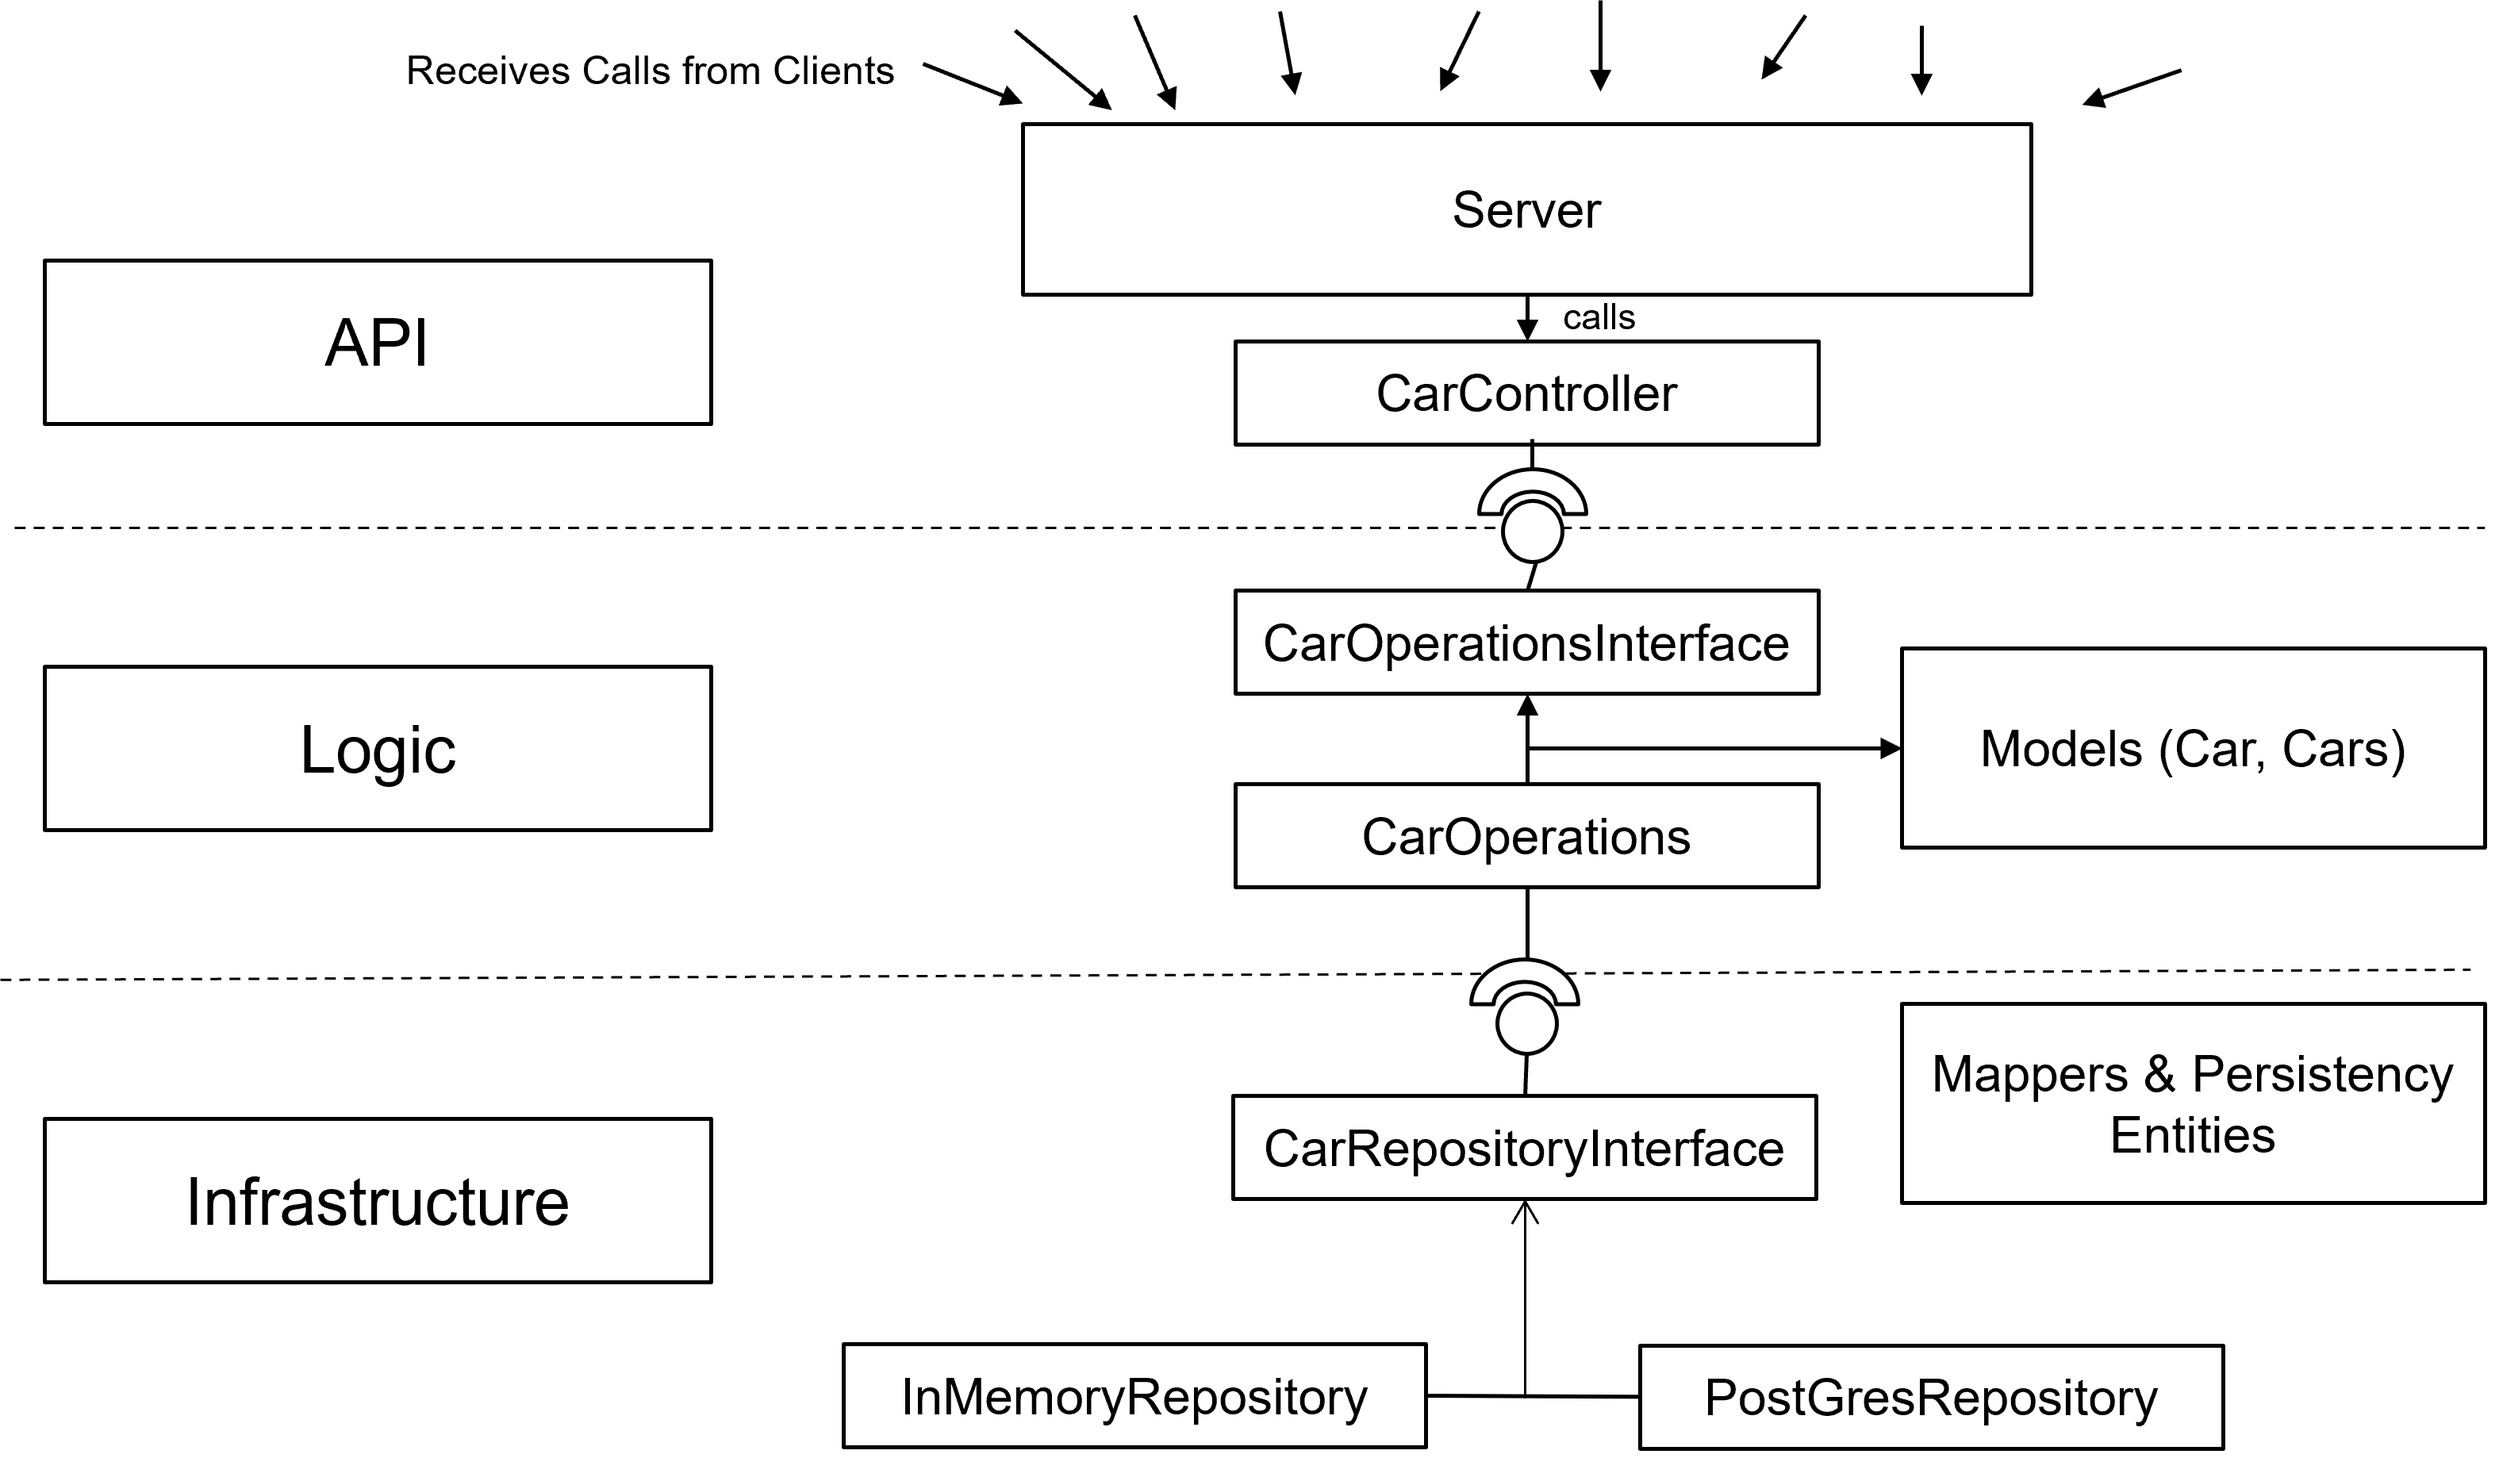
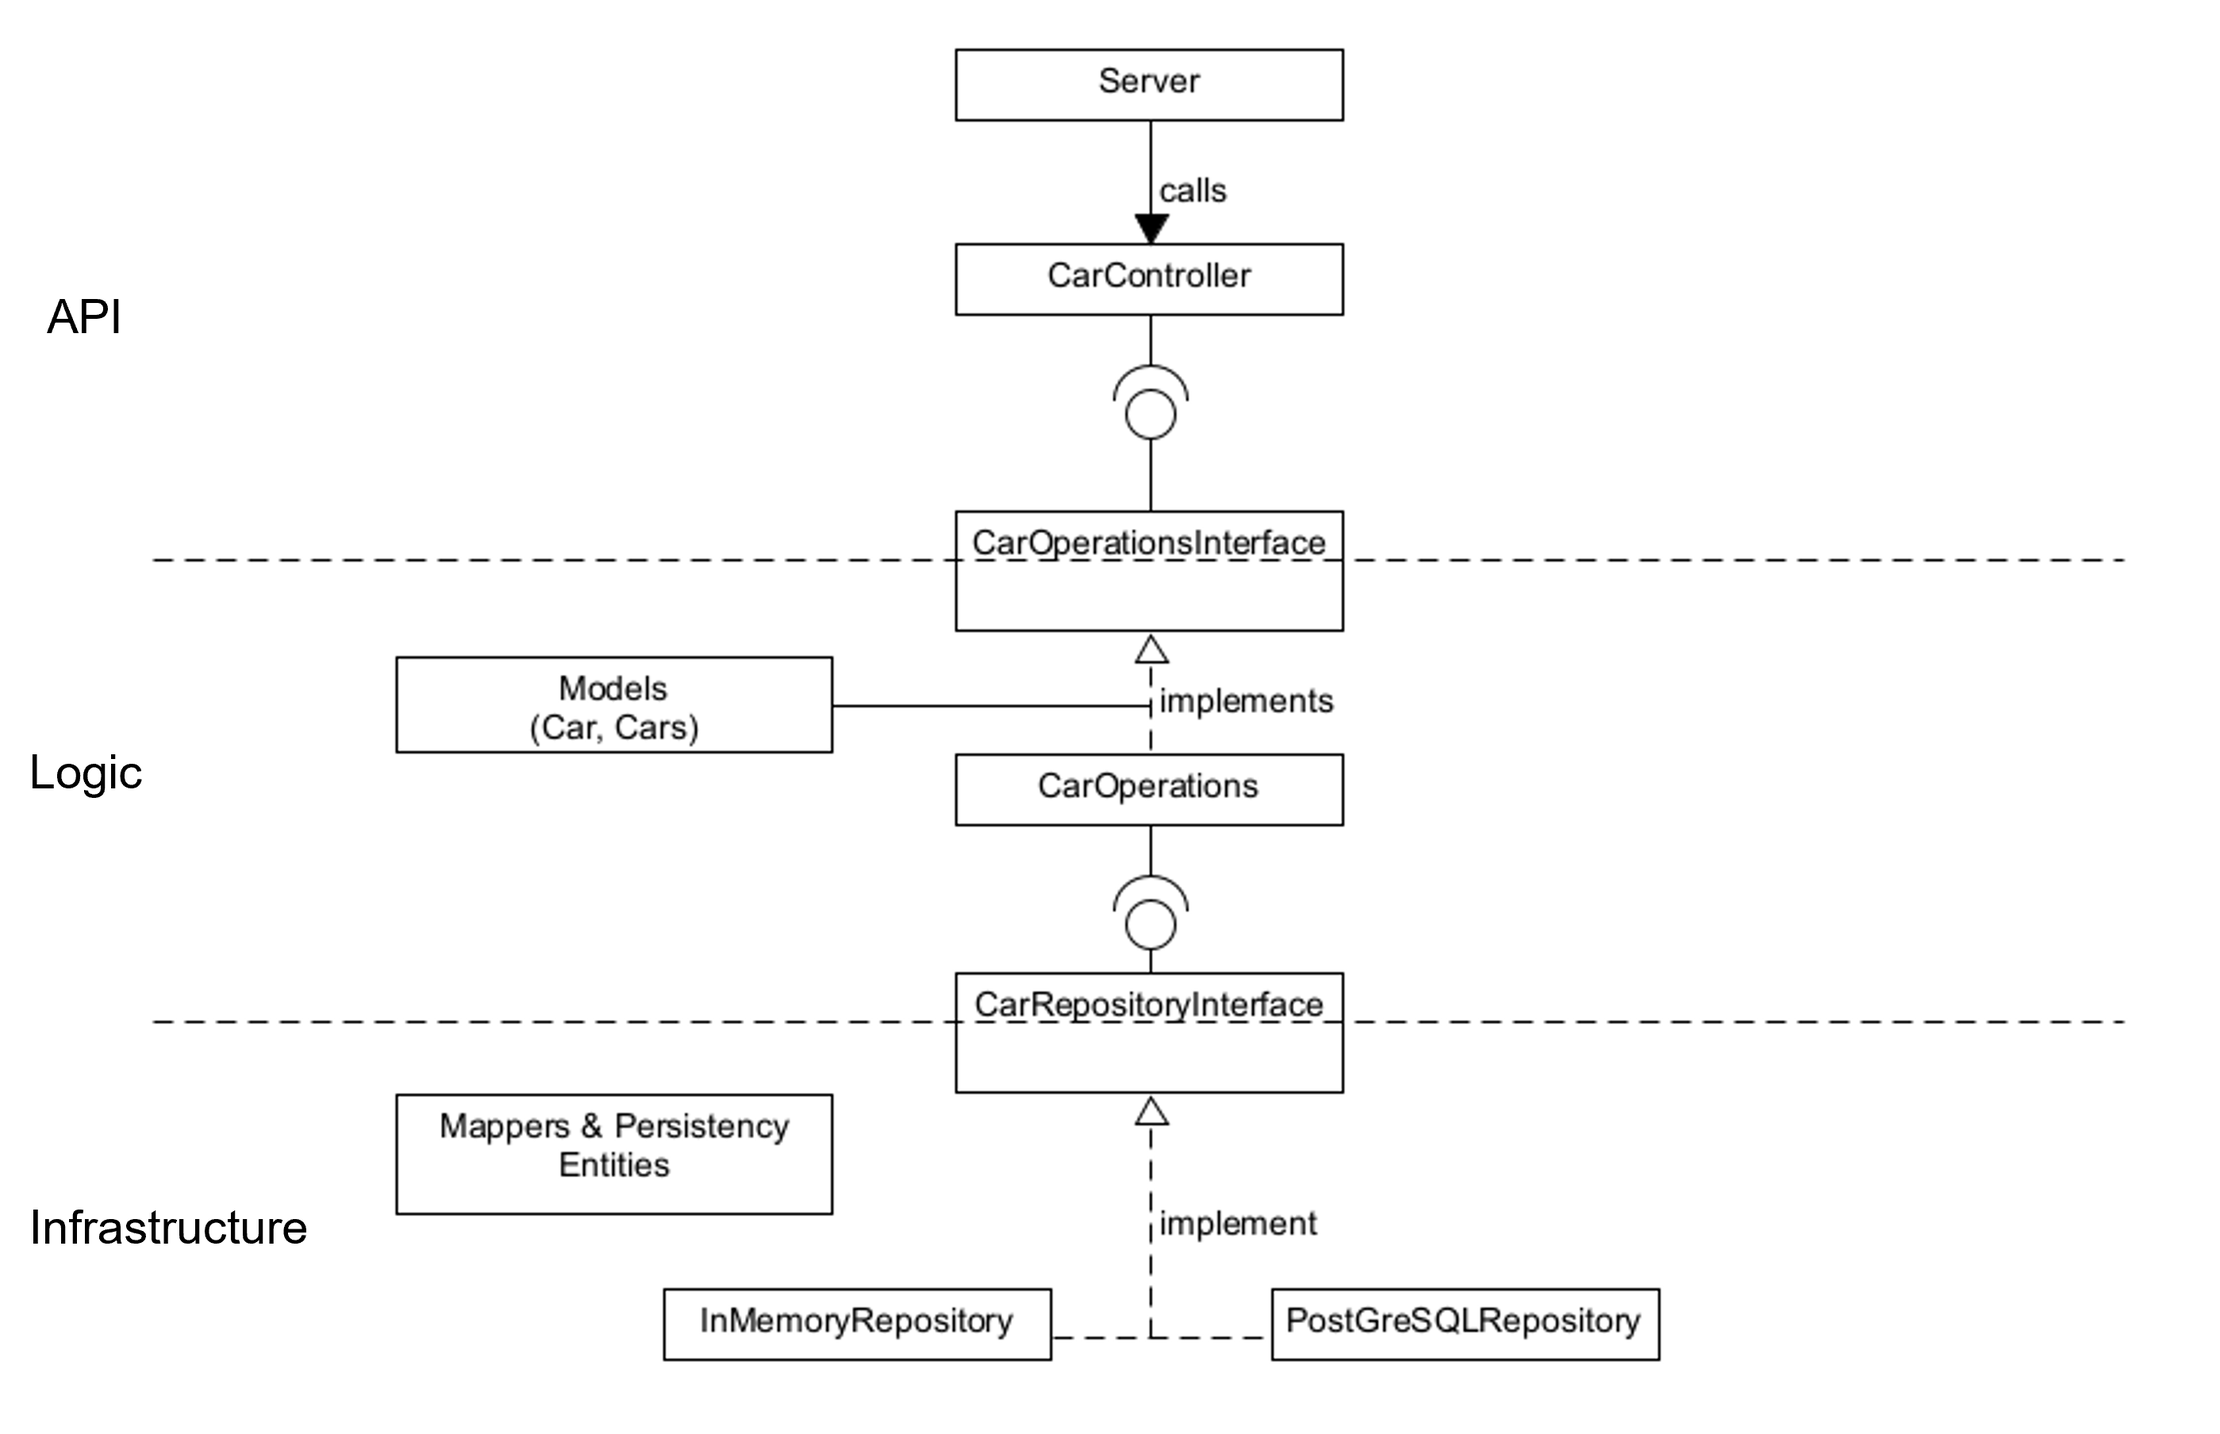
dmcars microarchitecture angepasst & schönheitsfehler korrigiert

diff --git a/chapters/3_ms_tasks/2_domain_ms_dmcar/2.4_implementation_dm_car.tex b/chapters/3_ms_tasks/2_domain_ms_dmcar/2.4_implementation_dm_car.tex
@@ -6,16 +6,16 @@ Finally, the microarchitecture is visualized in VS Code.
 
 \subsubsection*{Parts of a Micro Architecture}
 A microservice architecture divides a system into three distributed system parts: API, Logic, and Infrastructure.
-These term will be explained in the following.
+These terms will be explained in the following.
 
 \begin{description}
     \item[API:] The API defines the endpoints of the microservice.
-                This is done by specifying paths and the according methods each path uses.
+                This is done by specifying paths and the methods each path uses.
                 Therefore the API defines the operations the microservice exposes to the client.
     \item[Logic:] The Logic part implements the API's operations.
                 It provides a well-defined interface, offering access to the methods.
                 This separates the API endpoints from the actual implementation.
-    \item[Infrastructure:] This part is used to implement the logic part, yet it not part of the business logic.
+    \item[Infrastructure:] This part is used to implement the logic part, yet it is not part of the business logic.
                 It offers connectivity to databases, message queues, or other microservices and is therefore an essential part of the microservice architecture.
 \end{description}
 
@@ -29,7 +29,7 @@ The structure of the DM-CarV1.0 microarchitecture is shown in \autoref{fig:ms_dm
                 These methods are then mapped to the HTTP methods and paths.
                 In the case of the \texttt{CarController} struct, this happens using the \texttt{echo} framework.
     \item[Logic:] The Logic implements the operations behind the API endpoints.
-                It exposes an interface which hides the implementation details.
+                It exposes an interface that hides the implementation details.
                 \texttt{DM-CarV1.0} implements the operations behind the API in the \texttt{operations} package.
                 The domain entities used are defined in the \texttt{model} package.
     \item[Infrastructure:] \texttt{DM-CarV1.0}'s infrastructure offers different repositories for the domain entities.
@@ -47,7 +47,7 @@ The structure of the DM-CarV1.0 microarchitecture is shown in \autoref{fig:ms_dm
 
 \subsubsection*{Micro Architecture in VS Code}
 Opening the \texttt{dm-carv1.0} repository in VS-Code, the folder structure shown in \autoref{fig:micro_architecture_vs_code} can be found. 
-It clearly shows the microservice-architecture explained in both previous sections.
+It clearly shows the microservice architecture explained in both previous sections.
 
 \begin{figure}
     \centering
@@ -62,7 +62,7 @@ It clearly shows the microservice-architecture explained in both previous sectio
 This task dives deeper into the microarchitecture of the DM-CarV1.0 microservice.
 Parts of the microarchitecture are explained in greater detail.
 
-\subsubsection*{Content of the Logic Folder}
+\subsubsection*{Content of the logic Folder}
 % Primary aspects of the logic folder
 As previously explained, the logic folder contains the business logic of the microservice.
 Since \texttt{DM-CarV1.0} is a domain microservice, it implements the domain logic.
@@ -79,19 +79,20 @@ Each operation is implemented in a separate file to ensure the separation of con
 Also, each test is implemented in a separate file.
 
 Therefore, the subfolders' task is to separate the entities and value objects from the operations and their tests.
-This ensures the separation of concerns and the single responsibility principle.
+This ensures the separation of concerns.
 Also, the separation becomes clearer and the code is easier to maintain.
 
 \subsubsection*{Repository Interface}
 % Description of the CarRepositoryInterface
 The \texttt{CarRepositoryInterface} is placed in the \texttt{logic/model} folder.
 It acts as the Interface between the \texttt{logic} and the \texttt{infrastructure} layer, thus separating the logic from the infrastructure.
+This is done by the \texttt{CarRepositoryInterface} encapsulating the implementation of the persistence of cars.
 \texttt{CarOperations} will use the \texttt{CarRepositoryInterface} to communicate with the \texttt{infrastructure} layer.
 It provides the signatures of the functions "\texttt{GetCars}" and "\texttt{GetCar}".
 "\texttt{AddCar}" will be implemented later.
 
 % Which operations must be provided by a repository implementation
-The \texttt{CarRepositoryInterface} is used to create the \texttt{CarOperations} object, which implements the interface.
+The \texttt{CarRepositoryInterface} is used to create the \texttt{CarOperations} object, which implements the interface. %//TODO nochmal nachprüfen ob das stimmt
 % Why is the interface located in the logic folder
 Each function of the \texttt{CarRepositoryInterface} is implemented in the \texttt{operations} package with each function having a separate file.
 This is done by using the \texttt{CarOperations} struct, which calls the functions from the \texttt{operations} package.
